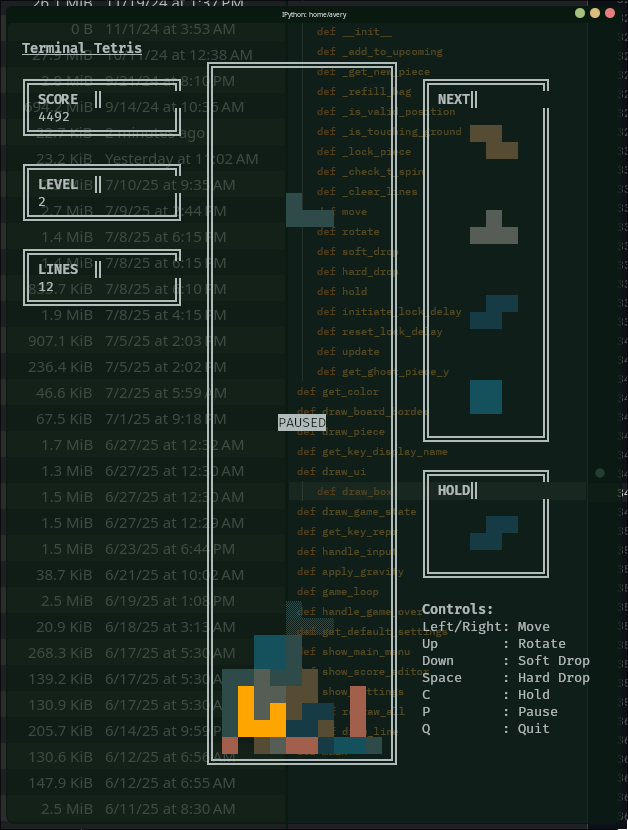
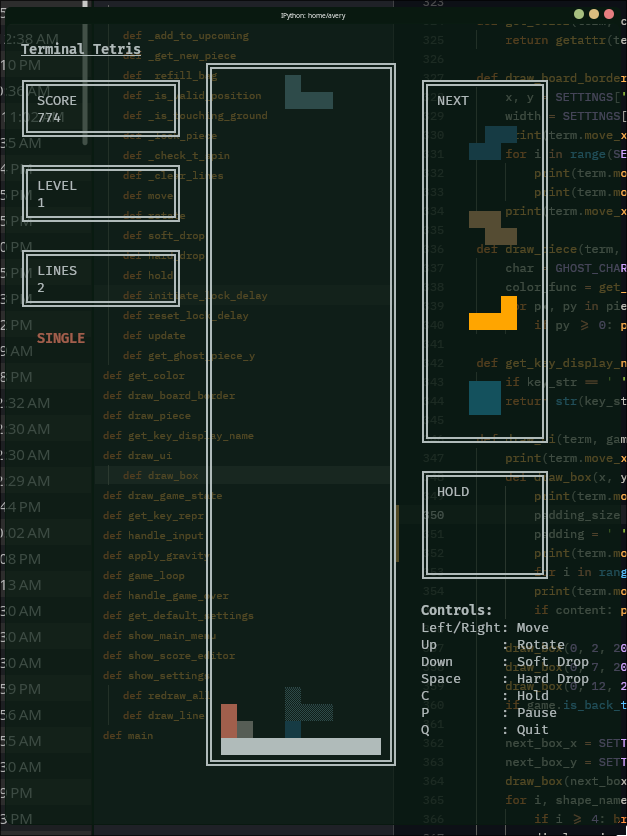
fixed the box bug and updated screenshots

diff --git a/terminal-tetris.py b/terminal-tetris.py
@@ -347,7 +347,9 @@ def draw_ui(term, game):
     print(term.move_xy(0, 0) + term.bold_underline("Terminal Tetris"))
     def draw_box(x, y, w, h, title, content=""):
         print(term.move_xy(x, y) + f"╔{'═'*(w-2)}╗")
-        print(term.move_xy(x, y + 1) + f"║ {term.bold(title):<{w-3}}║")
+        padding_size = (w - 2) - term.length(title) - 1
+        padding = ' ' * padding_size
+        print(term.move_xy(x, y + 1) + f"║ {title}{padding}║")
         for i in range(2, h - 1): print(term.move_xy(x, y + i) + f"║{' '*(w-2)}║")
         print(term.move_xy(x, y + h -1) + f"╚{'═'*(w-2)}╝")
         if content: print(term.move_xy(x + 2, y + 2) + str(content))
